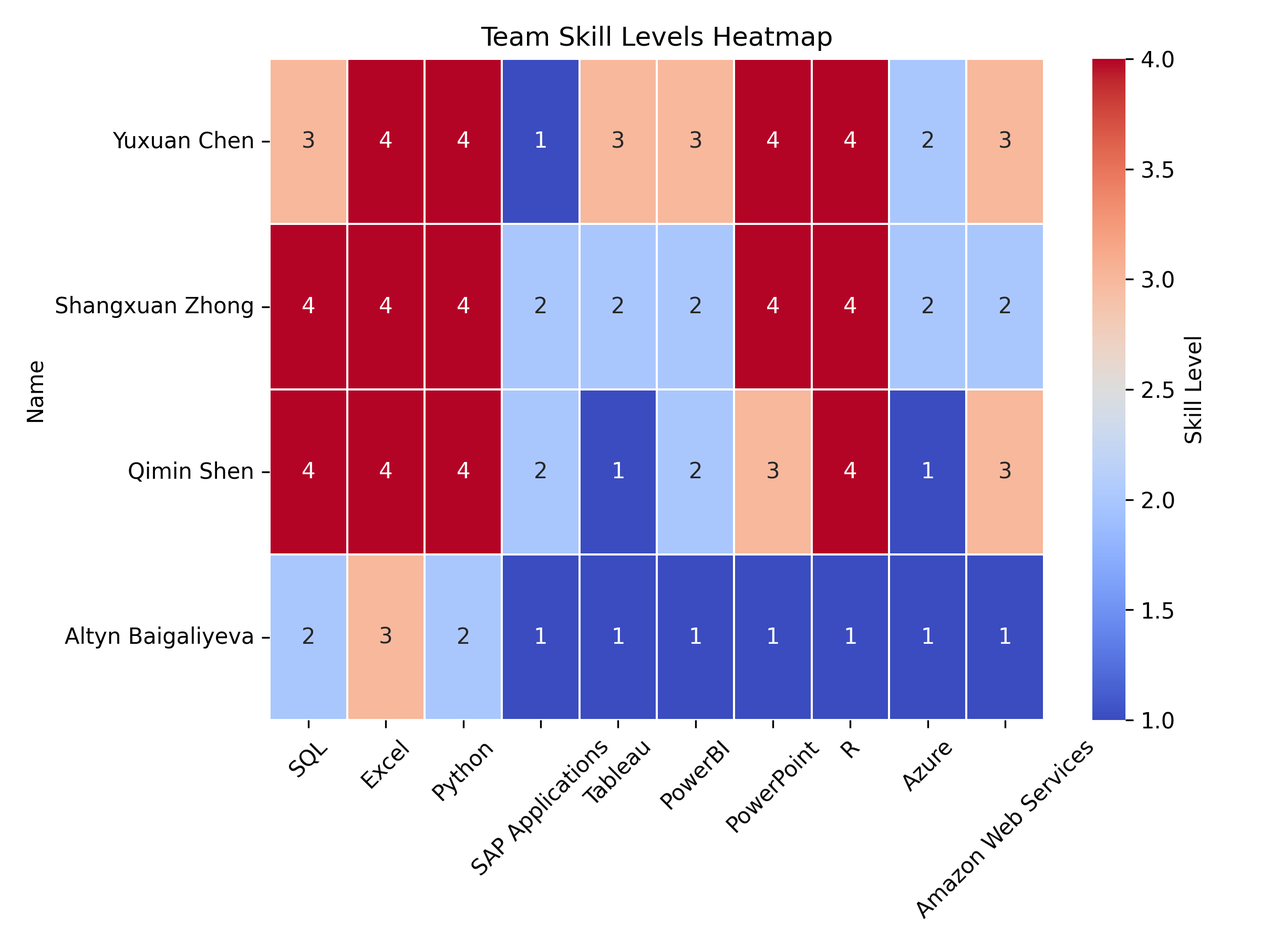
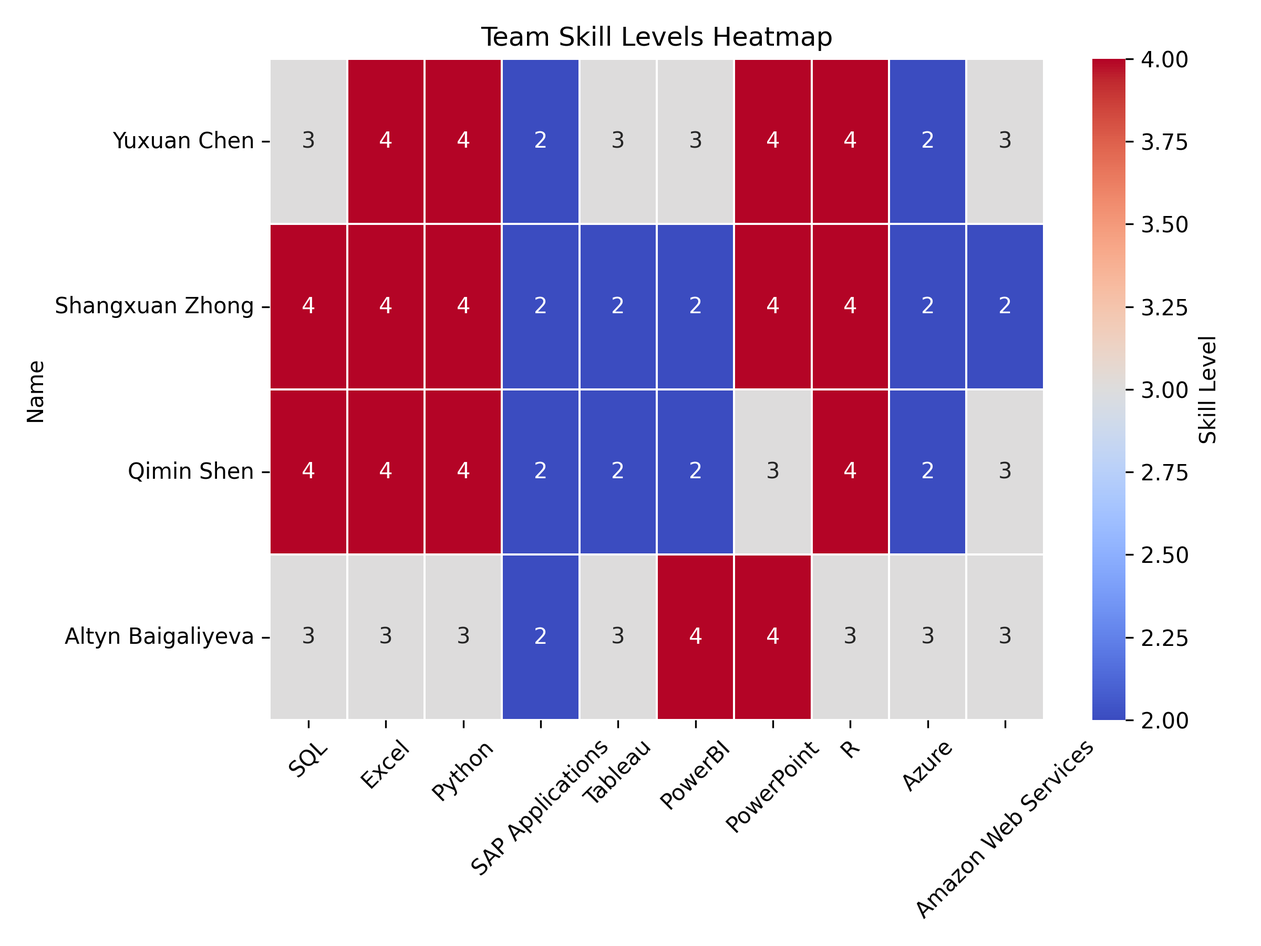
gap

diff --git a/_site/skill_gap_analysis.html b/_site/skill_gap_analysis.html
@@ -209,7 +209,7 @@ pre > code.sourceCode > span > a:first-child::before { text-decoration: underlin
 </header>
 
 
-<div id="cce87d42" class="cell" data-execution_count="1">
+<div id="1102e61a" class="cell" data-execution_count="1">
 <details class="code-fold">
 <summary>Code</summary>
 <div class="sourceCode cell-code" id="cb1"><pre class="sourceCode python code-with-copy"><code class="sourceCode python"><span id="cb1-1"><a href="#cb1-1" aria-hidden="true" tabindex="-1"></a><span class="im">import</span> pandas <span class="im">as</span> pd</span>
@@ -231,7 +231,7 @@ pre > code.sourceCode > span > a:first-child::before { text-decoration: underlin
 <section id="creating-a-team-based-skills-data-framework" class="level2" data-number="1">
 <h2 data-number="1" class="anchored" data-anchor-id="creating-a-team-based-skills-data-framework"><span class="header-section-number">1</span> Creating a team-based skills data framework</h2>
 <p>We take a column of software skill names from the cleaned dataset, splits each entry, cleans up the text, and counts how often each skill appears. Then, we grabs the top 30 most frequent skills, and puts them into a tidy table using pandas to make it easier to view.</p>
-<div id="2a6855cc" class="cell" data-execution_count="2">
+<div id="b9d8f811" class="cell" data-execution_count="2">
 <details class="code-fold">
 <summary>Code</summary>
 <div class="sourceCode cell-code" id="cb2"><pre class="sourceCode python code-with-copy"><code class="sourceCode python"><span id="cb2-1"><a href="#cb2-1" aria-hidden="true" tabindex="-1"></a><span class="im">from</span> collections <span class="im">import</span> Counter</span>
@@ -258,7 +258,7 @@ pre > code.sourceCode > span > a:first-child::before { text-decoration: underlin
 </details>
 </div>
 <p>We build a table showing the skill levels of our team members across various tools like SQL, Excel, Python, and others. Then we create a heatmap to visually highlight each person’s strengths and weaknesses, making it easy to compare skill levels across the team.</p>
-<div id="cfb96516" class="cell" data-execution_count="3">
+<div id="ad282e46" class="cell" data-execution_count="3">
 <details class="code-fold">
 <summary>Code</summary>
 <div class="sourceCode cell-code" id="cb3"><pre class="sourceCode python code-with-copy"><code class="sourceCode python"><span id="cb3-1"><a href="#cb3-1" aria-hidden="true" tabindex="-1"></a><span class="im">import</span> pandas <span class="im">as</span> pd</span>
@@ -268,16 +268,16 @@ pre > code.sourceCode > span > a:first-child::before { text-decoration: underlin
 <span id="cb3-5"><a href="#cb3-5" aria-hidden="true" tabindex="-1"></a><span class="co"># 1. Construct team skill level data</span></span>
 <span id="cb3-6"><a href="#cb3-6" aria-hidden="true" tabindex="-1"></a>skills_data <span class="op">=</span> {</span>
 <span id="cb3-7"><a href="#cb3-7" aria-hidden="true" tabindex="-1"></a>    <span class="st">"Name"</span>: [<span class="st">"Yuxuan Chen"</span>, <span class="st">"Shangxuan Zhong"</span>, <span class="st">"Qimin Shen"</span>, <span class="st">"Altyn Baigaliyeva"</span>],</span>
-<span id="cb3-8"><a href="#cb3-8" aria-hidden="true" tabindex="-1"></a>    <span class="st">"SQL"</span>: [<span class="dv">3</span>, <span class="dv">4</span>, <span class="dv">4</span>, <span class="dv">2</span>],</span>
+<span id="cb3-8"><a href="#cb3-8" aria-hidden="true" tabindex="-1"></a>    <span class="st">"SQL"</span>: [<span class="dv">3</span>, <span class="dv">4</span>, <span class="dv">4</span>, <span class="dv">3</span>],</span>
 <span id="cb3-9"><a href="#cb3-9" aria-hidden="true" tabindex="-1"></a>    <span class="st">"Excel"</span>: [<span class="dv">4</span>, <span class="dv">4</span>, <span class="dv">4</span>, <span class="dv">3</span>],</span>
-<span id="cb3-10"><a href="#cb3-10" aria-hidden="true" tabindex="-1"></a>    <span class="st">"Python"</span>: [<span class="dv">4</span>, <span class="dv">4</span>, <span class="dv">4</span>, <span class="dv">2</span>],</span>
-<span id="cb3-11"><a href="#cb3-11" aria-hidden="true" tabindex="-1"></a>    <span class="st">"SAP Applications"</span>: [<span class="dv">1</span>, <span class="dv">2</span>, <span class="dv">2</span>, <span class="dv">1</span>],</span>
-<span id="cb3-12"><a href="#cb3-12" aria-hidden="true" tabindex="-1"></a>    <span class="st">"Tableau"</span>: [<span class="dv">3</span>, <span class="dv">2</span>, <span class="dv">1</span>, <span class="dv">1</span>],</span>
-<span id="cb3-13"><a href="#cb3-13" aria-hidden="true" tabindex="-1"></a>    <span class="st">"PowerBI"</span>: [<span class="dv">3</span>, <span class="dv">2</span>, <span class="dv">2</span>, <span class="dv">1</span>],</span>
-<span id="cb3-14"><a href="#cb3-14" aria-hidden="true" tabindex="-1"></a>    <span class="st">"PowerPoint"</span>: [<span class="dv">4</span>, <span class="dv">4</span>, <span class="dv">3</span>, <span class="dv">1</span>],</span>
-<span id="cb3-15"><a href="#cb3-15" aria-hidden="true" tabindex="-1"></a>    <span class="st">"R"</span>: [<span class="dv">4</span>, <span class="dv">4</span>, <span class="dv">4</span>, <span class="dv">1</span>],</span>
-<span id="cb3-16"><a href="#cb3-16" aria-hidden="true" tabindex="-1"></a>    <span class="st">"Azure"</span>: [<span class="dv">2</span>, <span class="dv">2</span>, <span class="dv">1</span>, <span class="dv">1</span>],</span>
-<span id="cb3-17"><a href="#cb3-17" aria-hidden="true" tabindex="-1"></a>    <span class="st">"Amazon Web Services"</span>: [<span class="dv">3</span>, <span class="dv">2</span>, <span class="dv">3</span>, <span class="dv">1</span>]</span>
+<span id="cb3-10"><a href="#cb3-10" aria-hidden="true" tabindex="-1"></a>    <span class="st">"Python"</span>: [<span class="dv">4</span>, <span class="dv">4</span>, <span class="dv">4</span>, <span class="dv">3</span>],</span>
+<span id="cb3-11"><a href="#cb3-11" aria-hidden="true" tabindex="-1"></a>    <span class="st">"SAP Applications"</span>: [<span class="dv">2</span>, <span class="dv">2</span>, <span class="dv">2</span>, <span class="dv">2</span>],</span>
+<span id="cb3-12"><a href="#cb3-12" aria-hidden="true" tabindex="-1"></a>    <span class="st">"Tableau"</span>: [<span class="dv">3</span>, <span class="dv">2</span>, <span class="dv">2</span>, <span class="dv">3</span>],</span>
+<span id="cb3-13"><a href="#cb3-13" aria-hidden="true" tabindex="-1"></a>    <span class="st">"PowerBI"</span>: [<span class="dv">3</span>, <span class="dv">2</span>, <span class="dv">2</span>, <span class="dv">4</span>],</span>
+<span id="cb3-14"><a href="#cb3-14" aria-hidden="true" tabindex="-1"></a>    <span class="st">"PowerPoint"</span>: [<span class="dv">4</span>, <span class="dv">4</span>, <span class="dv">3</span>, <span class="dv">4</span>],</span>
+<span id="cb3-15"><a href="#cb3-15" aria-hidden="true" tabindex="-1"></a>    <span class="st">"R"</span>: [<span class="dv">4</span>, <span class="dv">4</span>, <span class="dv">4</span>, <span class="dv">3</span>],</span>
+<span id="cb3-16"><a href="#cb3-16" aria-hidden="true" tabindex="-1"></a>    <span class="st">"Azure"</span>: [<span class="dv">2</span>, <span class="dv">2</span>, <span class="dv">2</span>, <span class="dv">3</span>],</span>
+<span id="cb3-17"><a href="#cb3-17" aria-hidden="true" tabindex="-1"></a>    <span class="st">"Amazon Web Services"</span>: [<span class="dv">3</span>, <span class="dv">2</span>, <span class="dv">3</span>, <span class="dv">3</span>]</span>
 <span id="cb3-18"><a href="#cb3-18" aria-hidden="true" tabindex="-1"></a>}</span>
 <span id="cb3-19"><a href="#cb3-19" aria-hidden="true" tabindex="-1"></a></span>
 <span id="cb3-20"><a href="#cb3-20" aria-hidden="true" tabindex="-1"></a><span class="co"># 2. Create dataframe and set Name as index</span></span>
@@ -304,7 +304,7 @@ pre > code.sourceCode > span > a:first-child::before { text-decoration: underlin
 <section id="compare-team-skills-to-industry-requirements" class="level2" data-number="2">
 <h2 data-number="2" class="anchored" data-anchor-id="compare-team-skills-to-industry-requirements"><span class="header-section-number">2</span> Compare team skills to industry requirements</h2>
 <p>We add a new column EDU_MATCH to the dataset to check if each person’s actual education level matches the minimum education requirement. If they match, it labels the row as “Match”; otherwise, it marks it as “Mismatch.” This makes it easy to see who meets the education criteria and who doesn’t.</p>
-<div id="524b2690" class="cell" data-execution_count="4">
+<div id="14f1f55d" class="cell" data-execution_count="4">
 <details class="code-fold">
 <summary>Code</summary>
 <div class="sourceCode cell-code" id="cb4"><pre class="sourceCode python code-with-copy"><code class="sourceCode python"><span id="cb4-1"><a href="#cb4-1" aria-hidden="true" tabindex="-1"></a><span class="im">from</span> pyspark.sql.functions <span class="im">import</span> col, when</span>
@@ -325,7 +325,7 @@ pre > code.sourceCode > span > a:first-child::before { text-decoration: underlin
 </details>
 </div>
 <p>Then we create a reference table that links each unique minimum education level required for a job to a corresponding score. It assigns higher scores to higher education levels, for example, a Ph.D.&nbsp;gets a 5, a Master’s a 4, and so on, down to 0 for jobs that list no education requirement. And we think this scoring helps quantify and compare job expectations based on the level of education required.</p>
-<div id="d7e83ea1" class="cell" data-execution_count="5">
+<div id="392ad10f" class="cell" data-execution_count="5">
 <details class="code-fold">
 <summary>Code</summary>
 <div class="sourceCode cell-code" id="cb5"><pre class="sourceCode python code-with-copy"><code class="sourceCode python"><span id="cb5-1"><a href="#cb5-1" aria-hidden="true" tabindex="-1"></a><span class="im">from</span> pyspark.sql.functions <span class="im">import</span> when, lit, col, trim</span>
@@ -355,7 +355,7 @@ pre > code.sourceCode > span > a:first-child::before { text-decoration: underlin
 </figure>
 </div>
 <p>We analyze how often each software skill appears in job listings, categorized by the required education level (which we previously converted into scores). First, we join the education score to each job, split the combined skill strings into individual skills, and count how frequently each skill appears at each education score level. Second, we reshape the data so that each skill shows the number of times it appears across all score levels. Finally, we identify the most common score for each skill. If multiple scores tie for the highest count, we will select the lowest one among them—resulting in a “Proficiency_Levels” value that reflects the typical education requirement associated with that skill in the job market.</p>
-<div id="9426d553" class="cell" data-execution_count="6">
+<div id="d6e96180" class="cell" data-execution_count="6">
 <details class="code-fold">
 <summary>Code</summary>
 <div class="sourceCode cell-code" id="cb6"><pre class="sourceCode python code-with-copy"><code class="sourceCode python"><span id="cb6-1"><a href="#cb6-1" aria-hidden="true" tabindex="-1"></a><span class="im">from</span> pyspark.sql.functions <span class="im">import</span> count, array, struct, sort_array, expr, size, element_at, col, lit, greatest, when</span>
@@ -401,7 +401,7 @@ pre > code.sourceCode > span > a:first-child::before { text-decoration: underlin
 </details>
 </div>
 <p>Here we focus on a specific set of software skills that are relevant to our analysis. First, we define a list of target skills we’re interested in, such as SQL, Excel, Python, Tableau, and others. Then, we filter our previously processed skill data to only include these selected skills, keeping just the skill names and their associated “Proficiency_Levels”. Finally, we sort the result alphabetically by skill name to make it easier to review and compare.</p>
-<div id="eae14087" class="cell" data-execution_count="7">
+<div id="7433d566" class="cell" data-execution_count="7">
 <details class="code-fold">
 <summary>Code</summary>
 <div class="sourceCode cell-code" id="cb7"><pre class="sourceCode python code-with-copy"><code class="sourceCode python"><span id="cb7-1"><a href="#cb7-1" aria-hidden="true" tabindex="-1"></a><span class="im">from</span> pyspark.sql.functions <span class="im">import</span> lit</span>
@@ -430,7 +430,7 @@ pre > code.sourceCode > span > a:first-child::before { text-decoration: underlin
 </figure>
 </div>
 <p>Now we are able to evaluate how well our team’s skill levels match up with job market expectations. First, we collect the proficiency scores for a set of target skills from our previous results. Then, we rename the skill labels into a more readable and consistent format for easier comparison. Next, we calculate the skill gap for each team member by subtracting the job-required score from their actual skill level. Here, positive values mean the team exceeds the requirement, while negative values show areas for improvement. Finally, we visualize these gaps using a heatmap, making it easy to spot which skills are strong and which need development across the team.</p>
-<div id="a391e2c1" class="cell" data-execution_count="8">
+<div id="63029730" class="cell" data-execution_count="8">
 <details class="code-fold">
 <summary>Code</summary>
 <div class="sourceCode cell-code" id="cb8"><pre class="sourceCode python code-with-copy"><code class="sourceCode python"><span id="cb8-1"><a href="#cb8-1" aria-hidden="true" tabindex="-1"></a><span class="im">import</span> pandas <span class="im">as</span> pd</span>

diff --git a/_site/ml_methods.html b/_site/ml_methods.html
@@ -226,7 +226,7 @@ pre > code.sourceCode > span > a:first-child::before { text-decoration: underlin
 </header>
 
 
-<div id="5df2472a" class="cell" data-execution_count="1">
+<div id="c135c198" class="cell" data-execution_count="1">
 <details class="code-fold">
 <summary>Code</summary>
 <div class="sourceCode cell-code" id="cb1"><pre class="sourceCode python code-with-copy"><code class="sourceCode python"><span id="cb1-1"><a href="#cb1-1" aria-hidden="true" tabindex="-1"></a><span class="im">import</span> pandas <span class="im">as</span> pd</span>
@@ -250,7 +250,7 @@ pre > code.sourceCode > span > a:first-child::before { text-decoration: underlin
 <section id="build-model-and-compute-sse" class="level2" data-number="1.1">
 <h2 data-number="1.1" class="anchored" data-anchor-id="build-model-and-compute-sse"><span class="header-section-number">1.1</span> Build model and compute SSE</h2>
 <p>Here we run a clustering analysis on our cleaned dataset to explore how different job roles might naturally group together based on salary, employment type, and a few categorical factors like job duration, education level, remote options, and state. First, we convert the numeric fields to the right type, and encode the categorical ones so the model can understand them. Then we bring everything together into a single feature set, standardize it to keep things fair across scales, and try out different numbers of clusters using K-Means. For each value of k, we fit the model and record the SSE, which gives us a sense of how tight the clusters are. Finally, we plot those values to create an Elbow chart, which helps us visually decide the most reasonable number of clusters to use moving forward.</p>
-<div id="7e6675e6" class="cell" data-execution_count="2">
+<div id="2dc94342" class="cell" data-execution_count="2">
 <details class="code-fold">
 <summary>Code</summary>
 <div class="sourceCode cell-code" id="cb2"><pre class="sourceCode python code-with-copy"><code class="sourceCode python"><span id="cb2-1"><a href="#cb2-1" aria-hidden="true" tabindex="-1"></a><span class="im">from</span> pyspark.ml.clustering <span class="im">import</span> KMeans</span>
@@ -324,7 +324,7 @@ pre > code.sourceCode > span > a:first-child::before { text-decoration: underlin
 <section id="cluster-validation" class="level2" data-number="1.2">
 <h2 data-number="1.2" class="anchored" data-anchor-id="cluster-validation"><span class="header-section-number">1.2</span> Cluster validation</h2>
 <p>We go on capturing the cluster each data point falls into. We focus on comparing the resulting clusters with the actual employment type to see how well our unsupervised model aligns with that real-world label. We encode the employment types into numeric labels using LabelEncoder, and then use two metrics, Normalized Mutual Information (NMI) and Adjusted Rand Index (ARI), to quantify the similarity between our clusters and the actual labels. These scores give us a sense of whether the model found meaningful groupings or just jumbled everything together, while a higher score means better alignment. So this helps us validate how useful the clustering might actually be.</p>
-<div id="268a5a87" class="cell" data-execution_count="3">
+<div id="5839f42b" class="cell" data-execution_count="3">
 <details class="code-fold">
 <summary>Code</summary>
 <div class="sourceCode cell-code" id="cb3"><pre class="sourceCode python code-with-copy"><code class="sourceCode python"><span id="cb3-1"><a href="#cb3-1" aria-hidden="true" tabindex="-1"></a><span class="im">from</span> sklearn.preprocessing <span class="im">import</span> LabelEncoder</span>
@@ -363,7 +363,7 @@ pre > code.sourceCode > span > a:first-child::before { text-decoration: underlin
 <section id="comparing-and-show-results" class="level2" data-number="1.3">
 <h2 data-number="1.3" class="anchored" data-anchor-id="comparing-and-show-results"><span class="header-section-number">1.3</span> Comparing and show results</h2>
 <p>After clustering, we wanted to get a clearer, more intuitive sense of what the clusters actually look like. So we built a bunch of scatter plots to visually explore the patterns. We pull each key variables, job duration, education level, employment type, remote status, and state, then compare them against salary while highlighting different clusters one at a time. For categorical variables, we do a bit of behind-the-scenes magic to convert them into numbers for plotting, and we use a jitter function to keep overlapping points from stacking on top of each other. Each row in the grid of plots represents a variable, and each column highlights a different cluster, making it easier to spot what sets one group apart from the others. This helps us interpret the clusters more meaningfully—like whether one cluster tends to include higher salaries or is dominated by remote jobs.</p>
-<div id="e58c858d" class="cell" data-execution_count="4">
+<div id="74ce312b" class="cell" data-execution_count="4">
 <details class="code-fold">
 <summary>Code</summary>
 <div class="sourceCode cell-code" id="cb4"><pre class="sourceCode python code-with-copy"><code class="sourceCode python"><span id="cb4-1"><a href="#cb4-1" aria-hidden="true" tabindex="-1"></a><span class="im">import</span> matplotlib.pyplot <span class="im">as</span> plt</span>
@@ -443,7 +443,7 @@ pre > code.sourceCode > span > a:first-child::before { text-decoration: underlin
 <p>We generate individual plots for each variable we’re analyzing, one plot per variable, showing how salary relates to that variable across the different clusters. For each variable like duration, education, or remote type, we highlight each cluster one at a time (so 3 plots per variable), which really helps us zoom in and understand what makes each cluster unique in relation to salary. And we save all these charts in the image folder.</p>
 <section id="k-means-of-duration" class="level3" data-number="1.4.1">
 <h3 data-number="1.4.1" class="anchored" data-anchor-id="k-means-of-duration"><span class="header-section-number">1.4.1</span> K-Means of Duration</h3>
-<div id="2082f53f" class="cell" data-execution_count="5">
+<div id="ac70fc49" class="cell" data-execution_count="5">
 <details class="code-fold">
 <summary>Code</summary>
 <div class="sourceCode cell-code" id="cb5"><pre class="sourceCode python code-with-copy"><code class="sourceCode python"><span id="cb5-1"><a href="#cb5-1" aria-hidden="true" tabindex="-1"></a><span class="im">import</span> os</span>
@@ -560,7 +560,7 @@ pre > code.sourceCode > span > a:first-child::before { text-decoration: underlin
 <section id="build-model" class="level2" data-number="2.1">
 <h2 data-number="2.1" class="anchored" data-anchor-id="build-model"><span class="header-section-number">2.1</span> Build model</h2>
 <p>We’re building a multivariate linear regression model to predict salary, by preprocessing everything carefully before the modeling step. First, we pick the features we believe are relevant, like job duration, education level, employment type, remote status, and state. Since machine learning models can’t handle raw strings, we convert all the categorical fields into numerical format using indexing and one-hot encoding. Then, we combine everything (including the duration field) into a single feature vector and standardize the scale, so each variable has a fair influence on the model. We split the data into training and testing sets, build a pipeline to keep things clean and reproducible, and train a linear regression model. Finally, we evaluate how well our model performs using R² and RMSE, giving us a solid sense of how much of the salary variance we’re capturing—and how far off we might be on average.</p>
-<div id="2e3aed99" class="cell" data-execution_count="6">
+<div id="2e5d8414" class="cell" data-execution_count="6">
 <details class="code-fold">
 <summary>Code</summary>
 <div class="sourceCode cell-code" id="cb6"><pre class="sourceCode python code-with-copy"><code class="sourceCode python"><span id="cb6-1"><a href="#cb6-1" aria-hidden="true" tabindex="-1"></a><span class="co"># Multiple Linear Regression</span></span>
@@ -613,7 +613,7 @@ pre > code.sourceCode > span > a:first-child::before { text-decoration: underlin
 <section id="results-and-analysis" class="level2" data-number="2.2">
 <h2 data-number="2.2" class="anchored" data-anchor-id="results-and-analysis"><span class="header-section-number">2.2</span> Results and analysis</h2>
 <p>With two evaluation metrics: R² (how well the model explains salary variation) and RMSE (average prediction error), we create scatter plot is created with actual salaries on the x-axis and predicted on the y-axis, with a red dashed line representing a perfect prediction. And it helps visually assess model accuracy.</p>
-<div id="6bbbf069" class="cell" data-execution_count="7">
+<div id="0818ccca" class="cell" data-execution_count="7">
 <details class="code-fold">
 <summary>Code</summary>
 <div class="sourceCode cell-code" id="cb7"><pre class="sourceCode python code-with-copy"><code class="sourceCode python"><span id="cb7-1"><a href="#cb7-1" aria-hidden="true" tabindex="-1"></a>pdf <span class="op">=</span> predictions.select(<span class="st">"SALARY"</span>, <span class="st">"prediction"</span>).toPandas()</span>

diff --git a/_site/data_cleaning.html b/_site/data_cleaning.html
@@ -222,7 +222,7 @@ pre > code.sourceCode > span > a:first-child::before { text-decoration: underlin
 
 <section id="load-the-dataset" class="level1">
 <h1>Load the dataset</h1>
-<div id="a1ec43d3" class="cell" data-execution_count="1">
+<div id="584e38c8" class="cell" data-execution_count="1">
 <details class="code-fold">
 <summary>Code</summary>
 <div class="sourceCode cell-code" id="cb1"><pre class="sourceCode python code-with-copy"><code class="sourceCode python"><span id="cb1-1"><a href="#cb1-1" aria-hidden="true" tabindex="-1"></a><span class="im">import</span> pandas <span class="im">as</span> pd</span>
@@ -243,7 +243,7 @@ pre > code.sourceCode > span > a:first-child::before { text-decoration: underlin
 <section id="update-duration" class="level2">
 <h2 class="anchored" data-anchor-id="update-duration">1. Update Duration</h2>
 <p>Calculates the duration of each job posting by finding the difference between its expiration and posted dates. Converts the POSTED and EXPIRED columns from string to date format. Update DURATION if it is null with the number of days between EXPIRED and POSTED, otherwise, the existing value is kept.</p>
-<div id="98e6f459" class="cell" data-execution_count="2">
+<div id="4c8f5bad" class="cell" data-execution_count="2">
 <details class="code-fold">
 <summary>Code</summary>
 <div class="sourceCode cell-code" id="cb2"><pre class="sourceCode python code-with-copy"><code class="sourceCode python"><span id="cb2-1"><a href="#cb2-1" aria-hidden="true" tabindex="-1"></a><span class="co"># 1.DURATION = EXPIRED - POSTED</span></span>
@@ -266,7 +266,7 @@ pre > code.sourceCode > span > a:first-child::before { text-decoration: underlin
 <section id="clean-the-columns" class="level2">
 <h2 class="anchored" data-anchor-id="clean-the-columns">2. Clean the columns</h2>
 <p>Cleans up multiple text columns in the DataFrame by extracting and formatting the content originally enclosed in double quotes. Columns to clean contain those string values often wrapped in brackets, double quotes, or cluttered with newlines and extra spaces. For each of these columns, using regular expressions to remove square brackets, line breaks, and excess whitespace, formats comma-separated items with a proper space after each comma, and removes all double quotes, resulting in cleaner, more readable text entries across the specified columns.</p>
-<div id="558884e3" class="cell" data-execution_count="3">
+<div id="fe9d8696" class="cell" data-execution_count="3">
 <details class="code-fold">
 <summary>Code</summary>
 <div class="sourceCode cell-code" id="cb3"><pre class="sourceCode python code-with-copy"><code class="sourceCode python"><span id="cb3-1"><a href="#cb3-1" aria-hidden="true" tabindex="-1"></a><span class="co"># 2. Remove square brackets, line breaks, spaces, and replace the formatting between commas with “,”, then remove the double quotes</span></span>
@@ -288,7 +288,7 @@ pre > code.sourceCode > span > a:first-child::before { text-decoration: underlin
 <section id="clean-the-education-level-column" class="level2">
 <h2 class="anchored" data-anchor-id="clean-the-education-level-column">3. Clean the education level column</h2>
 <p>Cleans the EDUCATION_LEVELS column by extracting and retaining only the numeric portion of each entry. Removing surrounding text or symbols, leaving just the numeric education level in the column. This makes the data more consistent and easier to work with for analysis or modeling purposes.</p>
-<div id="7abd5b27" class="cell" data-execution_count="4">
+<div id="2078d975" class="cell" data-execution_count="4">
 <details class="code-fold">
 <summary>Code</summary>
 <div class="sourceCode cell-code" id="cb4"><pre class="sourceCode python code-with-copy"><code class="sourceCode python"><span id="cb4-1"><a href="#cb4-1" aria-hidden="true" tabindex="-1"></a><span class="co"># 3.EDUCATION_LEVELS only keeps digits</span></span>
@@ -301,7 +301,7 @@ pre > code.sourceCode > span > a:first-child::before { text-decoration: underlin
 <section id="clean-the-location-column" class="level2">
 <h2 class="anchored" data-anchor-id="clean-the-location-column">4. Clean the location column</h2>
 <p>Cleans the LOCATION column, ensures that all location information appears on one line, and removes curly braces, resulting a cleaner, more uniform LOCATION column for reading and analyzing</p>
-<div id="5817e854" class="cell" data-execution_count="5">
+<div id="41490fc6" class="cell" data-execution_count="5">
 <details class="code-fold">
 <summary>Code</summary>
 <div class="sourceCode cell-code" id="cb5"><pre class="sourceCode python code-with-copy"><code class="sourceCode python"><span id="cb5-1"><a href="#cb5-1" aria-hidden="true" tabindex="-1"></a><span class="co"># 4. LOCATION only keeps data</span></span>
@@ -315,7 +315,7 @@ pre > code.sourceCode > span > a:first-child::before { text-decoration: underlin
 <section id="update-modeled-duration" class="level2">
 <h2 class="anchored" data-anchor-id="update-modeled-duration">5. Update Modeled Duration</h2>
 <p>Similarly as in updating duration, fills in the value with the number of days between MODELED_EXPIRED and POSTED, helps standardize and complete the duration data for modeled job postings</p>
-<div id="bce32815" class="cell" data-execution_count="6">
+<div id="ae4e9854" class="cell" data-execution_count="6">
 <details class="code-fold">
 <summary>Code</summary>
 <div class="sourceCode cell-code" id="cb6"><pre class="sourceCode python code-with-copy"><code class="sourceCode python"><span id="cb6-1"><a href="#cb6-1" aria-hidden="true" tabindex="-1"></a><span class="co"># 5.MODELED_DURATION = MODELED_EXPIRED - POSTED</span></span>
@@ -337,7 +337,7 @@ pre > code.sourceCode > span > a:first-child::before { text-decoration: underlin
 <section id="standardize-remote-work-types" class="level2">
 <h2 class="anchored" data-anchor-id="standardize-remote-work-types">6. Standardize Remote Work Types</h2>
 <p>Standardizes the values in the REMOTE_TYPE_NAME column to ensure consistency in describing remote work types. Replaces values None and Not Remote with On-Site, changes Hybrid Remote to Hybrid, and keeps Remote as is. Simplify and unify the classification of job postings based on work location</p>
-<div id="a6a543dc" class="cell" data-execution_count="7">
+<div id="a100dc4d" class="cell" data-execution_count="7">
 <details class="code-fold">
 <summary>Code</summary>
 <div class="sourceCode cell-code" id="cb7"><pre class="sourceCode python code-with-copy"><code class="sourceCode python"><span id="cb7-1"><a href="#cb7-1" aria-hidden="true" tabindex="-1"></a><span class="co"># 6. Standardize Remote Work Types</span></span>
@@ -363,7 +363,7 @@ pre > code.sourceCode > span > a:first-child::before { text-decoration: underlin
 </section>
 <section id="save-the-cleaned-data" class="level2">
 <h2 class="anchored" data-anchor-id="save-the-cleaned-data">9. Save the cleaned data</h2>
-<div id="42f08b3a" class="cell" data-execution_count="8">
+<div id="f8de2148" class="cell" data-execution_count="8">
 <details class="code-fold">
 <summary>Code</summary>
 <div class="sourceCode cell-code" id="cb8"><pre class="sourceCode python code-with-copy"><code class="sourceCode python"><span id="cb8-1"><a href="#cb8-1" aria-hidden="true" tabindex="-1"></a><span class="co"># save data</span></span>

diff --git a/_site/nlp_methods.html b/_site/nlp_methods.html
@@ -219,7 +219,7 @@ pre > code.sourceCode > span > a:first-child::before { text-decoration: underlin
 </header>
 
 
-<div id="57cc8ea5" class="cell" data-execution_count="1">
+<div id="bc82fd69" class="cell" data-execution_count="1">
 <details class="code-fold">
 <summary>Code</summary>
 <div class="sourceCode cell-code" id="cb1"><pre class="sourceCode python code-with-copy"><code class="sourceCode python"><span id="cb1-1"><a href="#cb1-1" aria-hidden="true" tabindex="-1"></a><span class="im">import</span> pandas <span class="im">as</span> pd</span>
@@ -241,7 +241,7 @@ pre > code.sourceCode > span > a:first-child::before { text-decoration: underlin
 <section id="extracting-key-terms-from-job-descriptions-using-tf-idf" class="level1" data-number="1">
 <h1 data-number="1"><span class="header-section-number">1</span> Extracting Key Terms from Job Descriptions Using TF-IDF</h1>
 <p>We start by extracting the job description text from the “BODY” column and convert it into a Pandas DataFrame for easier text processing. To clean it up a bit, we remove line breaks so that the text becomes more uniform and easier to analyze. Then, we apply TF-IDF (Term Frequency-Inverse Document Frequency), which helps us identify and quantify the most important words across all descriptions, ignoring common English stop words. This transformation converts the text into a numerical format, capturing how relevant each word is in a particular document compared to the whole collection.</p>
-<div id="580b578e" class="cell" data-execution_count="2">
+<div id="41b637c9" class="cell" data-execution_count="2">
 <details class="code-fold">
 <summary>Code</summary>
 <div class="sourceCode cell-code" id="cb2"><pre class="sourceCode python code-with-copy"><code class="sourceCode python"><span id="cb2-1"><a href="#cb2-1" aria-hidden="true" tabindex="-1"></a><span class="im">from</span> sklearn.feature_extraction.text <span class="im">import</span> TfidfVectorizer</span>
@@ -264,7 +264,7 @@ pre > code.sourceCode > span > a:first-child::before { text-decoration: underlin
 <p>We applied KMeans clustering to the TF-IDF features of job descriptions to group similar postings into four distinct clusters. Each job was assigned a cluster label, which we then used to explore the top terms that defined each group. By extracting the most influential keywords from each cluster’s TF-IDF centroid, we generated word clouds to visualize the dominant language and themes within each cluster. These word clouds help us quickly grasp the unique focus of different groups, whether it’s technical, managerial, or creative roles, based on the language used in job descriptions.</p>
 <section id="clustering-tf-idf-features-with-k-means" class="level2" data-number="2.1">
 <h2 data-number="2.1" class="anchored" data-anchor-id="clustering-tf-idf-features-with-k-means"><span class="header-section-number">2.1</span> Clustering TF-IDF features with K-Means</h2>
-<div id="01c06d35" class="cell" data-execution_count="3">
+<div id="8fbba2c7" class="cell" data-execution_count="3">
 <details class="code-fold">
 <summary>Code</summary>
 <div class="sourceCode cell-code" id="cb3"><pre class="sourceCode python code-with-copy"><code class="sourceCode python"><span id="cb3-1"><a href="#cb3-1" aria-hidden="true" tabindex="-1"></a><span class="im">from</span> sklearn.cluster <span class="im">import</span> KMeans</span>
@@ -280,7 +280,7 @@ pre > code.sourceCode > span > a:first-child::before { text-decoration: underlin
 </section>
 <section id="generate-word-clouds-for-each-cluster" class="level2" data-number="2.2">
 <h2 data-number="2.2" class="anchored" data-anchor-id="generate-word-clouds-for-each-cluster"><span class="header-section-number">2.2</span> Generate word clouds for each cluster</h2>
-<div id="ed21f0c7" class="cell" data-execution_count="4">
+<div id="846ca030" class="cell" data-execution_count="4">
 <details class="code-fold">
 <summary>Code</summary>
 <div class="sourceCode cell-code" id="cb4"><pre class="sourceCode python code-with-copy"><code class="sourceCode python"><span id="cb4-1"><a href="#cb4-1" aria-hidden="true" tabindex="-1"></a><span class="im">from</span> wordcloud <span class="im">import</span> WordCloud</span>
@@ -328,7 +328,7 @@ pre > code.sourceCode > span > a:first-child::before { text-decoration: underlin
 </section>
 <section id="distribution-of-the-number-of-jobs-in-each-category" class="level1" data-number="3">
 <h1 data-number="3"><span class="header-section-number">3</span> Distribution of the number of jobs in each category</h1>
-<div id="ef0497fd" class="cell" data-execution_count="5">
+<div id="e4fd4ab8" class="cell" data-execution_count="5">
 <details class="code-fold">
 <summary>Code</summary>
 <div class="sourceCode cell-code" id="cb5"><pre class="sourceCode python code-with-copy"><code class="sourceCode python"><span id="cb5-1"><a href="#cb5-1" aria-hidden="true" tabindex="-1"></a><span class="im">import</span> plotly.express <span class="im">as</span> px</span>
@@ -346,7 +346,7 @@ pre > code.sourceCode > span > a:first-child::before { text-decoration: underlin
 <p>We trained two different classifiers, Naive Bayes and Support Vector Machine(SVM), to predict job clusters based on TF-IDF features extracted from job descriptions. By splitting the data into training and testing sets, we evaluated the models’ accuracy in classifying unseen samples. The classification reports provided detailed performance metrics, while a confusion matrix visualized how well the SVM model distinguished between the four clusters. This approach helps us assess the feasibility of using machine learning to automatically categorize job posts based on their content.</p>
 <section id="training-two-classifiers" class="level2" data-number="4.1">
 <h2 data-number="4.1" class="anchored" data-anchor-id="training-two-classifiers"><span class="header-section-number">4.1</span> Training two classifiers</h2>
-<div id="49cd2093" class="cell" data-execution_count="6">
+<div id="2f0231e1" class="cell" data-execution_count="6">
 <details class="code-fold">
 <summary>Code</summary>
 <div class="sourceCode cell-code" id="cb6"><pre class="sourceCode python code-with-copy"><code class="sourceCode python"><span id="cb6-1"><a href="#cb6-1" aria-hidden="true" tabindex="-1"></a><span class="im">from</span> sklearn.model_selection <span class="im">import</span> train_test_split</span>
@@ -394,7 +394,7 @@ pre > code.sourceCode > span > a:first-child::before { text-decoration: underlin
 </section>
 <section id="keyword-heat-visualization-according-to-the-term-frequency" class="level1" data-number="5">
 <h1 data-number="5"><span class="header-section-number">5</span> Keyword heat visualization (according to the term frequency)</h1>
-<div id="eefae17c" class="cell" data-execution_count="7">
+<div id="d8c4b4fc" class="cell" data-execution_count="7">
 <details class="code-fold">
 <summary>Code</summary>
 <div class="sourceCode cell-code" id="cb7"><pre class="sourceCode python code-with-copy"><code class="sourceCode python"><span id="cb7-1"><a href="#cb7-1" aria-hidden="true" tabindex="-1"></a><span class="im">import</span> numpy <span class="im">as</span> np</span>

diff --git a/_site/eda.html b/_site/eda.html
@@ -214,7 +214,7 @@ pre > code.sourceCode > span > a:first-child::before { text-decoration: underlin
 </header>
 
 
-<div id="2fcb71e6" class="cell" data-execution_count="1">
+<div id="beb412ca" class="cell" data-execution_count="1">
 <details class="code-fold">
 <summary>Code</summary>
 <div class="sourceCode cell-code" id="cb1"><pre class="sourceCode python code-with-copy"><code class="sourceCode python"><span id="cb1-1"><a href="#cb1-1" aria-hidden="true" tabindex="-1"></a><span class="im">import</span> pandas <span class="im">as</span> pd</span>
@@ -237,7 +237,7 @@ pre > code.sourceCode > span > a:first-child::before { text-decoration: underlin
 <h1>Exploratory Data Analysis (EDA)</h1>
 <section id="comparison-of-salary-between-remote-and-on-site-work-box-chart" class="level2">
 <h2 class="anchored" data-anchor-id="comparison-of-salary-between-remote-and-on-site-work-box-chart">1. Comparison of salary between remote and on-site work (box chart)</h2>
-<div id="447e688a" class="cell" data-execution_count="2">
+<div id="1c38040e" class="cell" data-execution_count="2">
 <details class="code-fold">
 <summary>Code</summary>
 <div class="sourceCode cell-code" id="cb2"><pre class="sourceCode python code-with-copy"><code class="sourceCode python"><span id="cb2-1"><a href="#cb2-1" aria-hidden="true" tabindex="-1"></a><span class="im">import</span> pandas <span class="im">as</span> pd</span>
@@ -268,7 +268,7 @@ pre > code.sourceCode > span > a:first-child::before { text-decoration: underlin
 </section>
 <section id="salary-by-region-map" class="level2">
 <h2 class="anchored" data-anchor-id="salary-by-region-map">2. Salary by region (map)</h2>
-<div id="ef1e789b" class="cell" data-execution_count="3">
+<div id="592108fc" class="cell" data-execution_count="3">
 <details class="code-fold">
 <summary>Code</summary>
 <div class="sourceCode cell-code" id="cb3"><pre class="sourceCode python code-with-copy"><code class="sourceCode python"><span id="cb3-1"><a href="#cb3-1" aria-hidden="true" tabindex="-1"></a><span class="co"># STATE_NAME change to .abbr</span></span>
@@ -314,7 +314,7 @@ pre > code.sourceCode > span > a:first-child::before { text-decoration: underlin
 </section>
 <section id="the-highest-paying-job" class="level2">
 <h2 class="anchored" data-anchor-id="the-highest-paying-job">3. The highest paying job</h2>
-<div id="cb16e13e" class="cell" data-execution_count="4">
+<div id="97c74528" class="cell" data-execution_count="4">
 <details class="code-fold">
 <summary>Code</summary>
 <div class="sourceCode cell-code" id="cb4"><pre class="sourceCode python code-with-copy"><code class="sourceCode python"><span id="cb4-1"><a href="#cb4-1" aria-hidden="true" tabindex="-1"></a><span class="co"># Collecting data with .collect()</span></span>
@@ -342,7 +342,7 @@ pre > code.sourceCode > span > a:first-child::before { text-decoration: underlin
 </section>
 <section id="salary-comparison-between-ai-and-non-ai-positions" class="level2">
 <h2 class="anchored" data-anchor-id="salary-comparison-between-ai-and-non-ai-positions">4. Salary comparison between AI and non-AI positions</h2>
-<div id="25ac261c" class="cell" data-execution_count="5">
+<div id="612b7ac1" class="cell" data-execution_count="5">
 <details class="code-fold">
 <summary>Code</summary>
 <div class="sourceCode cell-code" id="cb5"><pre class="sourceCode python code-with-copy"><code class="sourceCode python"><span id="cb5-1"><a href="#cb5-1" aria-hidden="true" tabindex="-1"></a><span class="im">import</span> plotly.express <span class="im">as</span> px</span>
